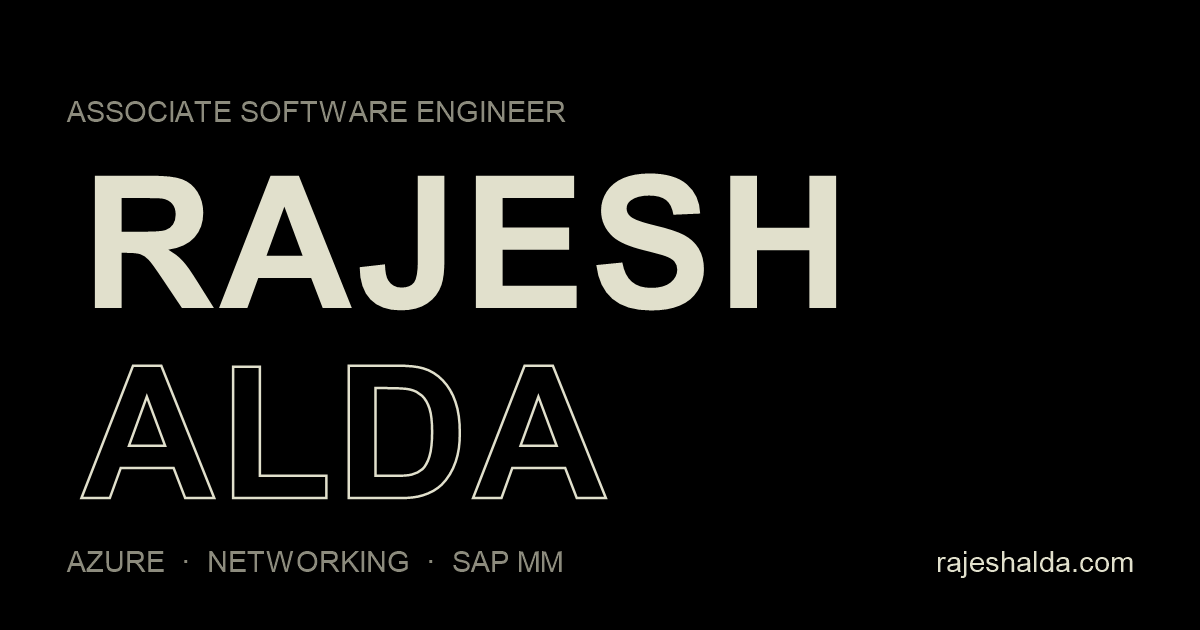
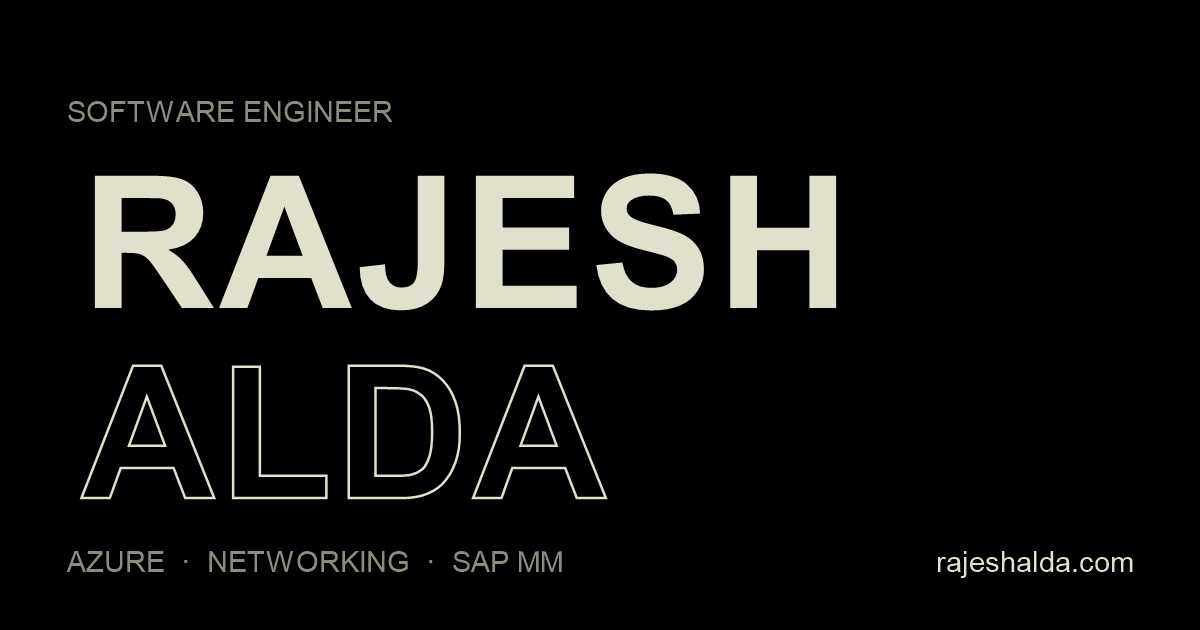
Update role to Software Engineer after promotion
Adds Software Engineer as the current position in the Experience
timeline (previous roles kept as history) and updates the title in
the hero, about section, page metadata, and OG image.

Changed region(s): [[0.0617, 0.1508, 0.4933, 0.2111]]

diff --git a/index.html b/index.html
@@ -3,21 +3,21 @@
   <head>
     <meta charset="UTF-8" />
     <meta name="viewport" content="width=device-width, initial-scale=1.0" />
-    <title>Rajesh Alda — Associate Software Engineer</title>
-    <meta name="description" content="Rajesh Alda — Associate Software Engineer skilled in Microsoft Azure, Networking, and SAP MM." />
+    <title>Rajesh Alda — Software Engineer</title>
+    <meta name="description" content="Rajesh Alda — Software Engineer skilled in Microsoft Azure, Networking, and SAP MM." />
     <link rel="icon" type="image/svg+xml" href="/favicon.svg" />
     <meta name="theme-color" content="#000000" />
     <link rel="canonical" href="https://rajeshalda.com/" />
     <meta property="og:type" content="website" />
     <meta property="og:url" content="https://rajeshalda.com/" />
-    <meta property="og:title" content="Rajesh Alda — Associate Software Engineer" />
+    <meta property="og:title" content="Rajesh Alda — Software Engineer" />
     <meta property="og:description" content="Crafting cloud infrastructure and AI-powered tools — Microsoft Azure, Networking & SAP MM." />
     <meta property="og:image" content="https://rajeshalda.com/og.png" />
     <meta property="og:image:width" content="1200" />
     <meta property="og:image:height" content="630" />
     <meta name="twitter:card" content="summary_large_image" />
     <meta name="twitter:site" content="@RajeshAlda" />
-    <meta name="twitter:title" content="Rajesh Alda — Associate Software Engineer" />
+    <meta name="twitter:title" content="Rajesh Alda — Software Engineer" />
     <meta name="twitter:description" content="Crafting cloud infrastructure and AI-powered tools — Microsoft Azure, Networking & SAP MM." />
     <meta name="twitter:image" content="https://rajeshalda.com/og.png" />
     <link rel="preconnect" href="https://fonts.googleapis.com" />

diff --git a/src/components/About.tsx b/src/components/About.tsx
@@ -2,7 +2,7 @@ import { useRef } from 'react'
 import { motion, useScroll, useTransform, useInView, MotionValue } from 'framer-motion'
 
 const BODY_TEXT =
-  'I work at NathCorp Pvt. Ltd. in Ranchi as an Associate Software Engineer, contributing to projects across cloud computing, networking, and enterprise solutions. Certified in Microsoft Azure Fundamentals, Azure Virtual Desktop Specialty, and CCNA — backed by MCA and BCA degrees and hands-on SAP MM training. When I am not shipping, I am cooking, gaming, or chasing whatever technology is next.'
+  'I work at NathCorp Pvt. Ltd. in Ranchi as a Software Engineer, contributing to projects across cloud computing, networking, and enterprise solutions. Certified in Microsoft Azure Fundamentals, Azure Virtual Desktop Specialty, and CCNA — backed by MCA and BCA degrees and hands-on SAP MM training. When I am not shipping, I am cooking, gaming, or chasing whatever technology is next.'
 
 const STATS = [
   { value: '3+', label: 'Certifications' },

diff --git a/src/components/Experience.tsx b/src/components/Experience.tsx
@@ -9,11 +9,18 @@ interface Entry {
 
 const ENTRIES: Entry[] = [
   {
-    role: 'Associate Software Engineer',
+    role: 'Software Engineer',
     org: 'NathCorp Pvt. Ltd. — Ranchi, India',
     period: 'Present',
     description:
-      'Contributing to software development projects with expertise in cloud computing, networking, and enterprise solutions.',
+      'Promoted to Software Engineer — owning software development end to end across cloud computing, AI-powered tooling, and enterprise solutions.',
+  },
+  {
+    role: 'Associate Software Engineer',
+    org: 'NathCorp Pvt. Ltd. — Ranchi, India',
+    period: 'Previously',
+    description:
+      'Contributed to software development projects with expertise in cloud computing, networking, and enterprise solutions.',
   },
   {
     role: 'SAP MM Module Training',

diff --git a/src/components/Hero.tsx b/src/components/Hero.tsx
@@ -103,7 +103,7 @@ export default function Hero({ started }: { started: boolean }) {
           animate={started ? { opacity: 1, y: 0 } : {}}
           transition={{ delay: 1.1, duration: 0.8 }}
         >
-          Associate Software Engineer
+          Software Engineer
         </motion.p>
         <h1 className="text-center text-[#E1E0CC] text-[18vw] md:text-[15vw]">
           <NameLine text="Rajesh" delay={0.15} started={started} />
